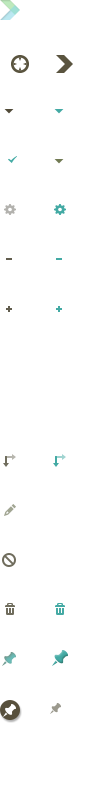
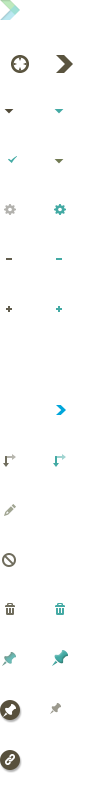
Styling of droppable areas in broader and narrower. Fixed system info button position.

Changed region(s): [[0.0, 0.9375, 0.21, 0.9688], [0.57, 0.5, 0.66, 0.5312]]

diff --git a/app/assets/stylesheets/dragndrop.css.scss b/app/assets/stylesheets/dragndrop.css.scss
@@ -15,7 +15,7 @@
 .ui-draggable-dragged {
   @include opacity(0.7);
 }
-.ui-droppable-clipboard {
+.ui-droppable-clipboard, .ui-droppable-broader {
   &:after {
     @include before-icon;
     position: absolute;
@@ -26,15 +26,45 @@
     background-position: 0px -700px;
   };
 }
+.ui-droppable-broader {
+  &:after {
+    background-position: 0px -750px;
+  };
+}
 
 h2.concept-label {
   font-size: 1em;
 }
 
-.concept.show .narrower.ui-droppable, .concept.show .broader.ui-droppable {
-  display: none;
+.concept.show {
+  .broader-and-narrower .ui-droppable {
+    display: none;
+  }
 }
-.concept.edit .narrower.static, .concept.edit .broader.static {
-  display: none;
+.concept.edit {
+  .broader-and-narrower .static {
+    display: none;
+  }
+}
+
+.broader-and-narrower {
+  .ui-droppable {
+    ul {
+      @include droparea;
+      padding: 4px 6px 24px 6px;
+      @include retina-stripes("white");
+      li {
+        margin: 2px 0;
+        .concept-label {
+          @include single-box-shadow(desaturate(lighten($text-color, 50%), 20%), 1px, 1px, 2px);
+        }
+      }
+    }
+    &.ui-state-hovered {
+      ul {
+        background-color: rgba($button-color, 0.4);
+      }
+    }
+  }
 }
 

diff --git a/app/assets/stylesheets/concept.css.scss b/app/assets/stylesheets/concept.css.scss
@@ -145,10 +145,12 @@ div.concept {
   }
   
   .terms {
-    padding-top: 60px;
+    margin-top: 60px;
+/*    @include background(linear-gradient(rgba($browncolor, 0.03), rgba($browncolor, 0)));*/
     
     section.language {
       @include retina-separator;
+         
       padding-top: 8px;
       min-height: 19px;
       
@@ -176,6 +178,9 @@ div.concept {
         content:"»\00a0";
         font-size: 1.3em;
       };
+    }
+    .system-info-toggle {
+      top: 15px;
     }
     >.system-info {
       padding-left: 116px;
@@ -270,10 +275,11 @@ div.concept {
           margin-left: 64px;
         }
       }
+      .system-info-toggle {
+        top: 5px;
+      }
     }
-    .system-info-toggle {
-/*      top: 5px;*/
-    }
+
   }
 }
 

diff --git a/app/assets/stylesheets/clipboard.css.scss b/app/assets/stylesheets/clipboard.css.scss
@@ -28,11 +28,9 @@
   
   &.ui-state-highlight {
     ul {
-      background-color: rgba($button-color, 0.3);
-      @include single-box-shadow(rgba($text-color, 0.5), 1px, 1px, 3px, false, inset);
-      border-top: none;
+      @include droparea;
       margin: 0 4px 0 3px;
-      padding: 9px 16px 8px 17px;
+      border-top: none;
     }
   }
   &.ui-state-hovered {

diff --git a/app/assets/stylesheets/_config.css.scss b/app/assets/stylesheets/_config.css.scss
@@ -89,6 +89,12 @@ $widget-width: 320px;
   };  
 }
 
+@mixin droparea {
+  background-color: rgba($button-color, 0.3);
+  @include single-box-shadow(rgba($text-color, 0.5), 1px, 1px, 3px, false, inset);
+  padding: 9px 16px 8px 17px;
+}
+
 @mixin table-properties {
   border-spacing: 0;
   
